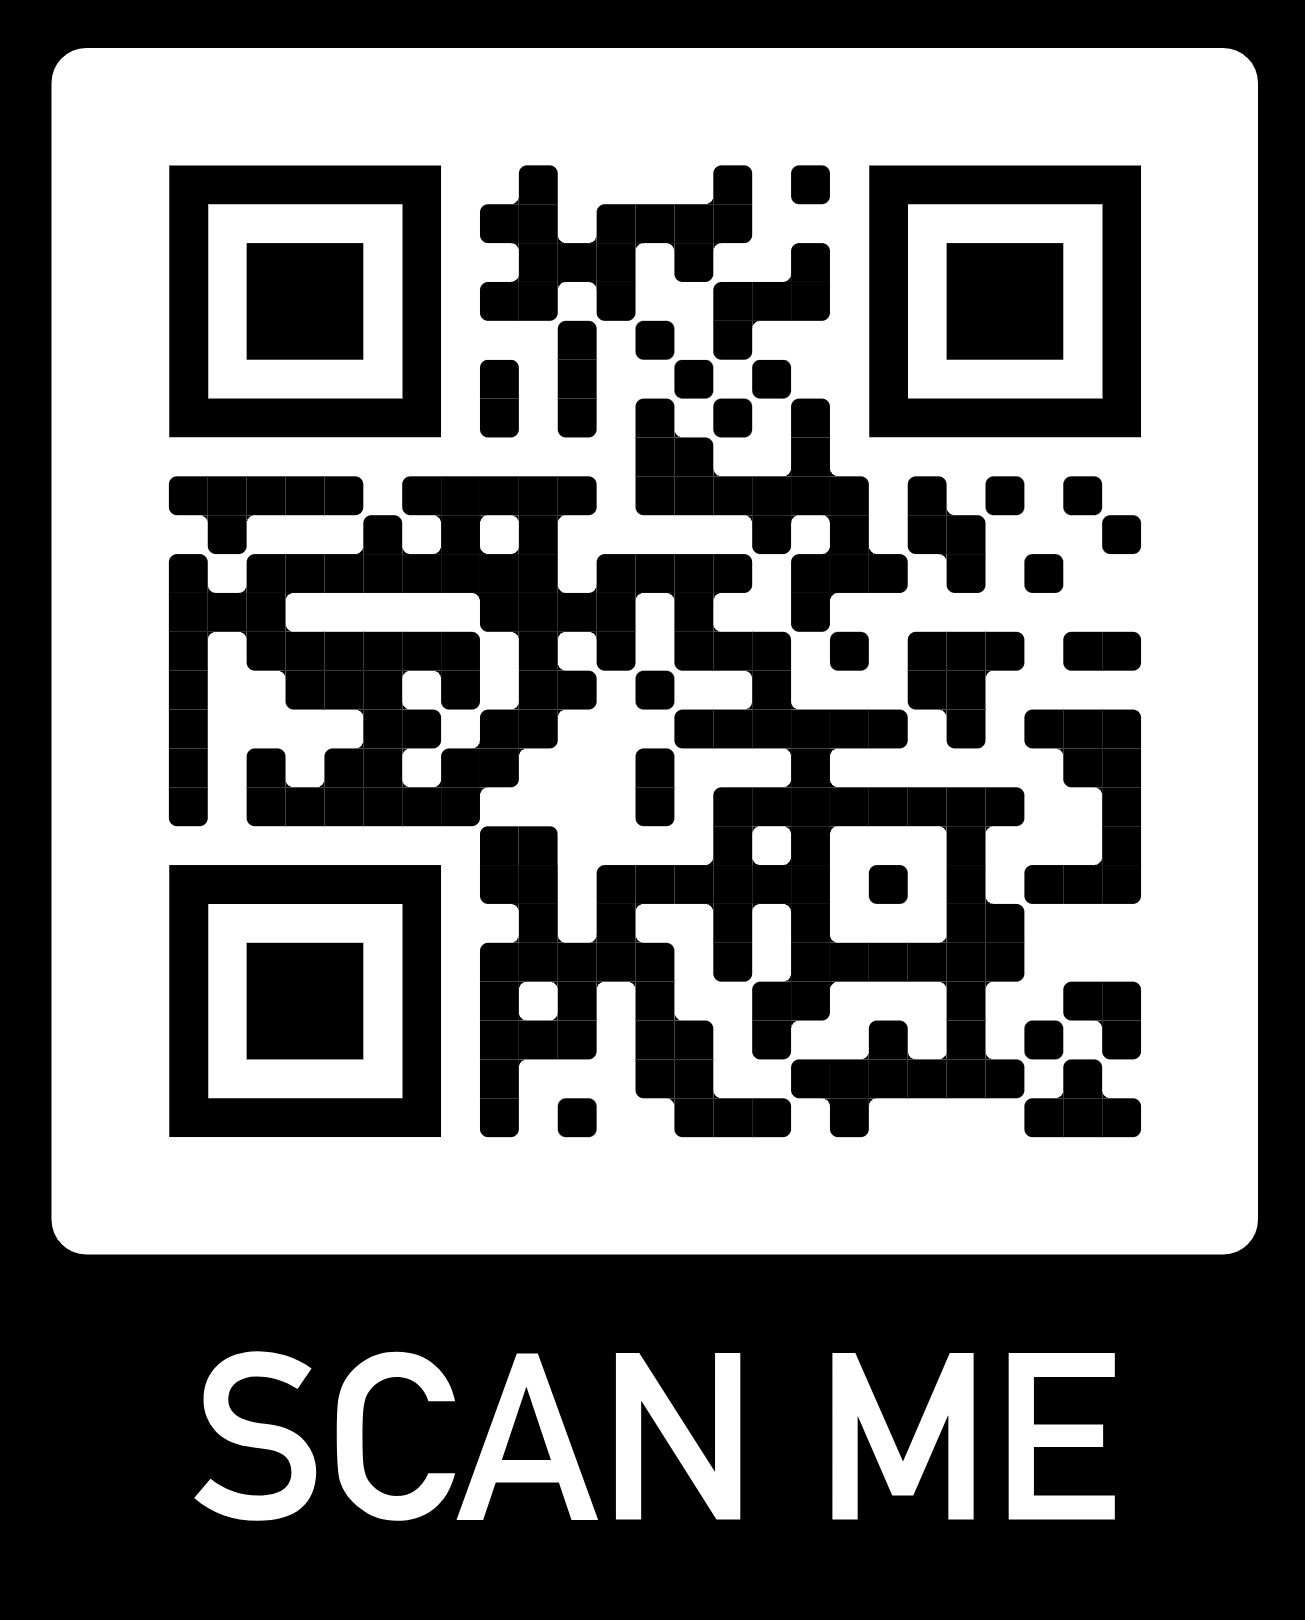
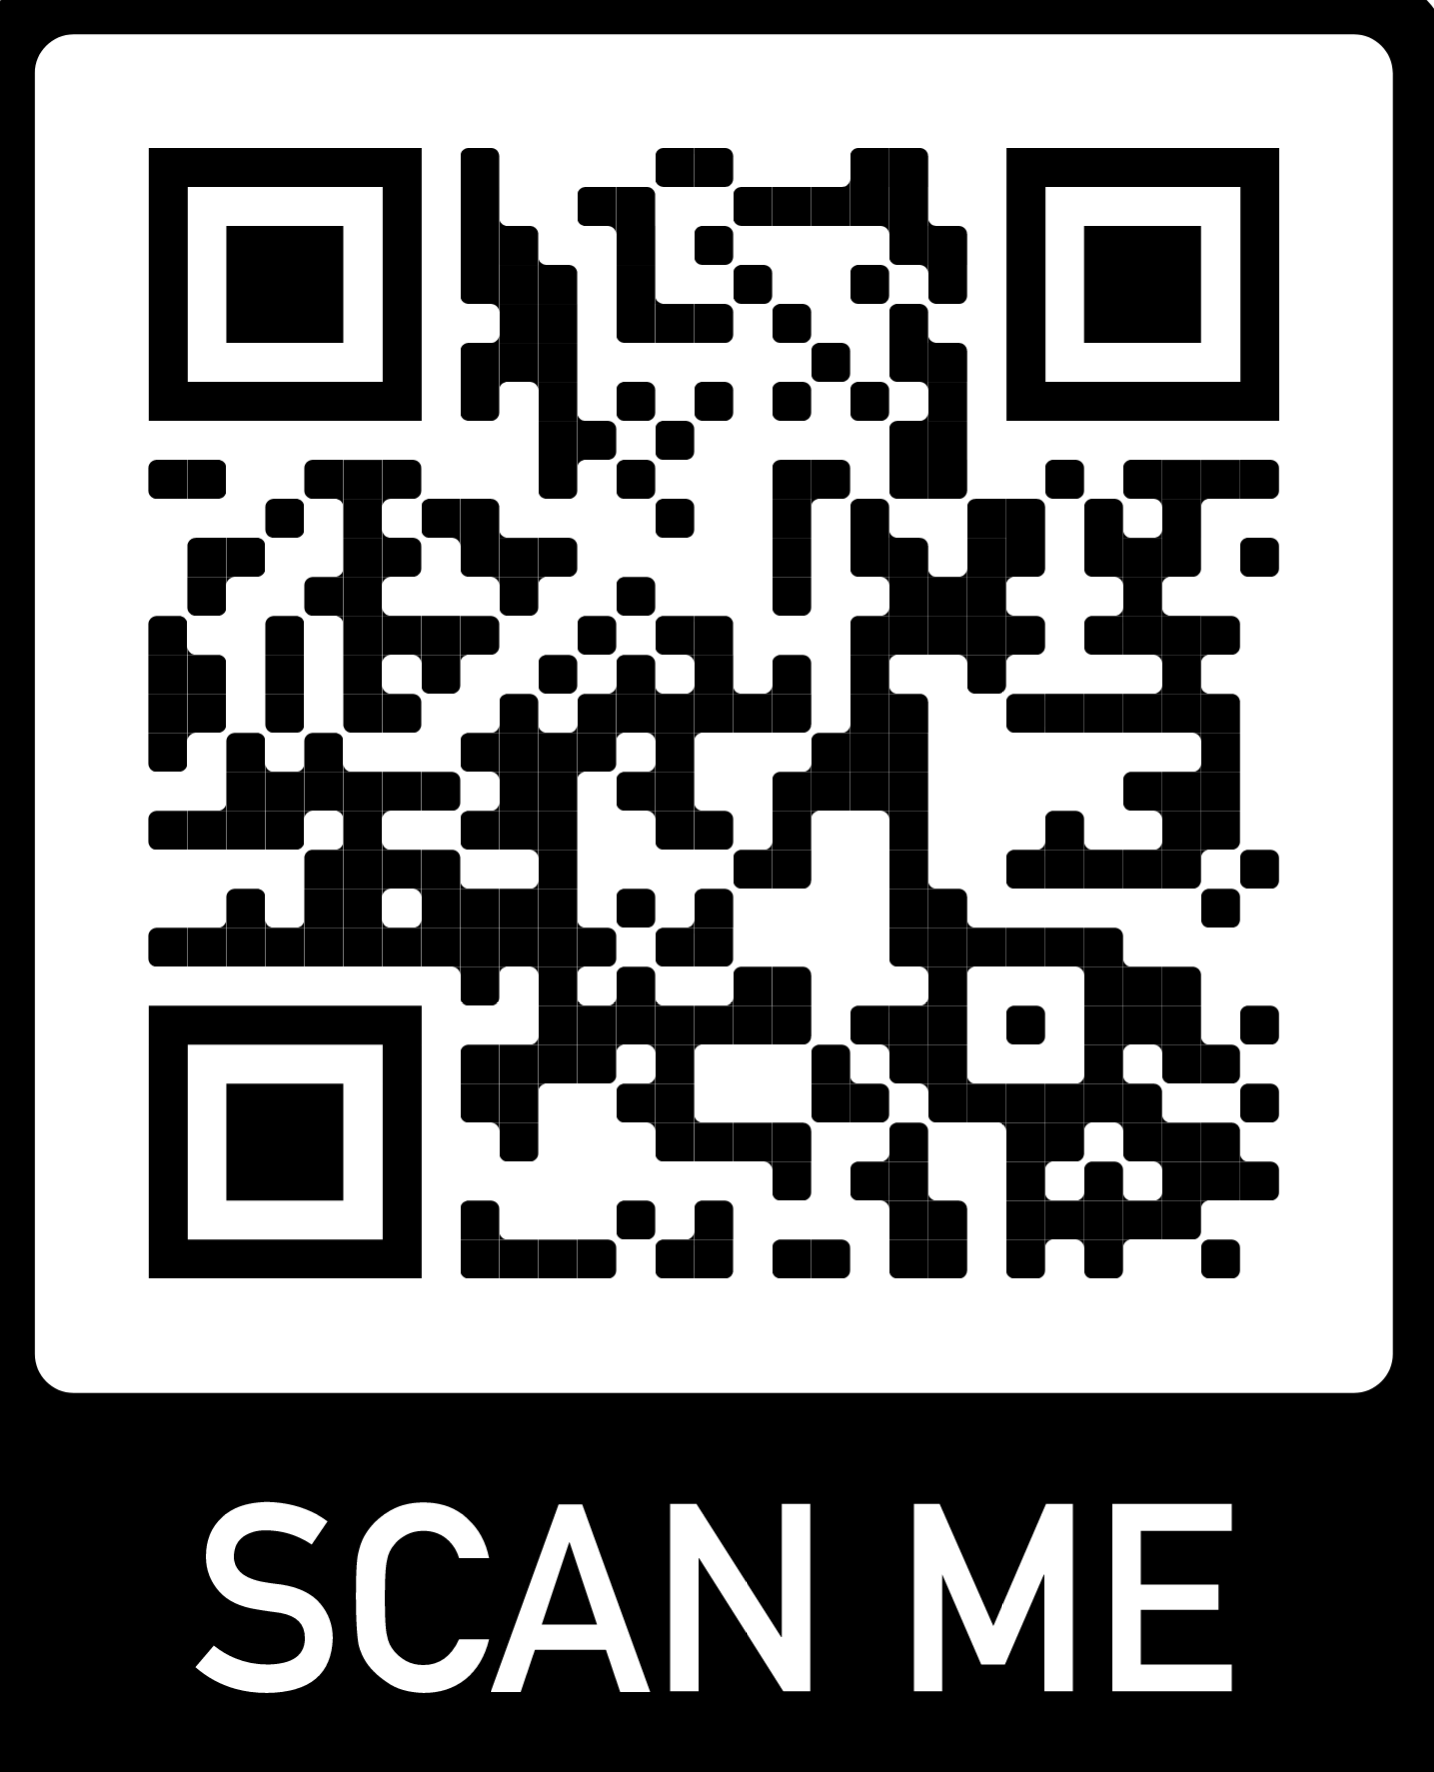
link

diff --git a/_posts/2022-06-12-nhs-confed-expo.md b/_posts/2022-06-12-nhs-confed-expo.md
@@ -44,7 +44,84 @@ The Transformation Directorate of NHS England (NHSX) has published [draft guidan
 
 **The NHS open-source policy will become officially available in Summer 2022**
 
+<h2>Get Involved in the Communtiy!</h2>
+
+    <div class="nhsuk-action-link">
+        <a class="nhsuk-action-link__link" href="https://forms.office.com/r/PM3hn17JMc">
+      <svg class="nhsuk-icon nhsuk-icon__arrow-right-circle" xmlns="http://www.w3.org/2000/svg" viewBox="0 0 24 24" aria-hidden="true">
+        <path d="M0 0h24v24H0z" fill="none">
+        </path>
+        <path d="M12 2a10 10 0 0 0-9.95 9h11.64L9.74 7.05a1 1 0 0 1 1.41-1.41l5.66 5.65a1 1 0 0 1 0 1.42l-5.66 5.65a1 1 0 0 1-1.41 0 1 1 0 0 1 0-1.41L13.69 13H2.05A10 10 0 1 0 12 2z">
+        </path>
+      </svg>
+      <span class="nhsuk-action-link__text">Leave us your contact details.
+      </span>
+    </a>
+  </div>
+
 ## Open your phone camera to get our details
 <div class="nhsuk-card">
     <img alt="link" class="nhsuk-card__img" src="assets/img/posts/scan-me.png" />
 </div>
+
+<p>The NHS Python Community for Healthcare is open to anyone interested in championing the use of Python, programming, and open code in the NHS and healthcare sector.</p>
+<ul class="nhsuk-grid-row nhsuk-card-group">
+    <li class="nhsuk-grid-column-one-half nhsuk-card-group__item">
+        <div class="nhsuk-card nhsuk-card--clickable">
+            <img class="nhsuk-card__img" src="assets/img/links/min/slack-min.png" alt="NHS Python Community Slack">
+            <div class="nhsuk-card__content">
+                <h2 class="nhsuk-card__heading nhsuk-heading-m">
+                    <a class="nhsuk-card__link" href="https://join.slack.com/t/nhs-pycom/shared_invite/zt-z6h1hszo-3_w68FdalVM2EATVVdgCuw"> Slack channel</a>
+                </h2>
+                <p>Join us on Slack to chat to the community or ask us your questions.</p>
+                <!--<a class="nhsuk-button" href="https://join.slack.com/t/nhs-pycom/shared_invite/zt-z6h1hszo-3_w68FdalVM2EATVVdgCuw" draggable="false">
+              Join
+            </a>-->
+            </div>
+        </div>
+    </li>
+    <li class="nhsuk-grid-column-one-half nhsuk-card-group__item">
+        <div class="nhsuk-card nhsuk-card--clickable">
+            <img class="nhsuk-card__img" src="assets/img/links/min/linkedin-min.png" alt="NHS Python Community LinkedIn">
+            <div class="nhsuk-card__content">
+                <h2 class="nhsuk-card__heading nhsuk-heading-m">
+                    <a class="nhsuk-card__link" href="https://www.linkedin.com/company/nhs-python-community/posts/"> LinkedIn page</a>
+                </h2>
+                <p>Follow our LinkedIn page to be notified about all our future events.</p>
+                <!--<a class="nhsuk-button" href="https://www.linkedin.com/company/nhs-python-community/posts/" draggable="false">
+                Follow
+            </a>-->
+            </div>
+        </div>
+    </li>
+</ul>
+<ul class="nhsuk-grid-row nhsuk-card-group">
+    <li class="nhsuk-grid-column-one-half nhsuk-card-group__item">
+        <div class="nhsuk-card nhsuk-card--clickable">
+            <img class="nhsuk-card__img" src="assets/img/links/min/youtube-min.png" alt="NHS Python Community Youtube">
+            <div class="nhsuk-card__content">
+                <h2 class="nhsuk-card__heading nhsuk-heading-m">
+                    <a class="nhsuk-card__link" href="https://www.youtube.com/channel/UC_jacmsGNZQR5BPP7h0EtXw/videos"> YouTube channel</a>
+                </h2>
+                <p>Don't forget to like and subscribe to our YouTube channel.</p>
+                <!--<a class="nhsuk-button" href="https://www.youtube.com/channel/UC_jacmsGNZQR5BPP7h0EtXw/videos" draggable="false">
+                Subscribe
+            </a>-->
+            </div>
+        </div>
+    </li>
+    <li class="nhsuk-grid-column-one-half nhsuk-card-group__item">
+        <div class="nhsuk-card nhsuk-card--clickable">
+            <img class="nhsuk-card__img" src="assets/img/links/min/github-min.png" alt="NHS Python Community GitHub">
+            <div class="nhsuk-card__content">
+                <h2 class="nhsuk-card__heading nhsuk-heading-m">
+                    <a class="nhsuk-card__link" href="https://github.com/nhs-pycom"> GitHub repository</a>
+                </h2>
+                <p>Fork our repositories on GitHub and use our code.</p>
+                <!--<a class="nhsuk-button" href="https://github.com/nhs-pycom" draggable="false">
+                Fork
+            </a>-->
+            </div>
+        </div>
+    </li>
+</ul>
